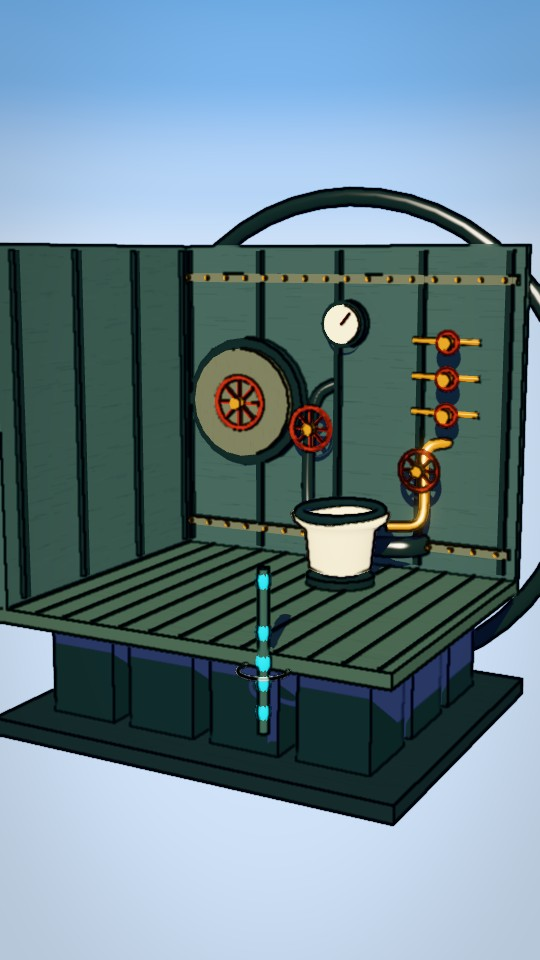
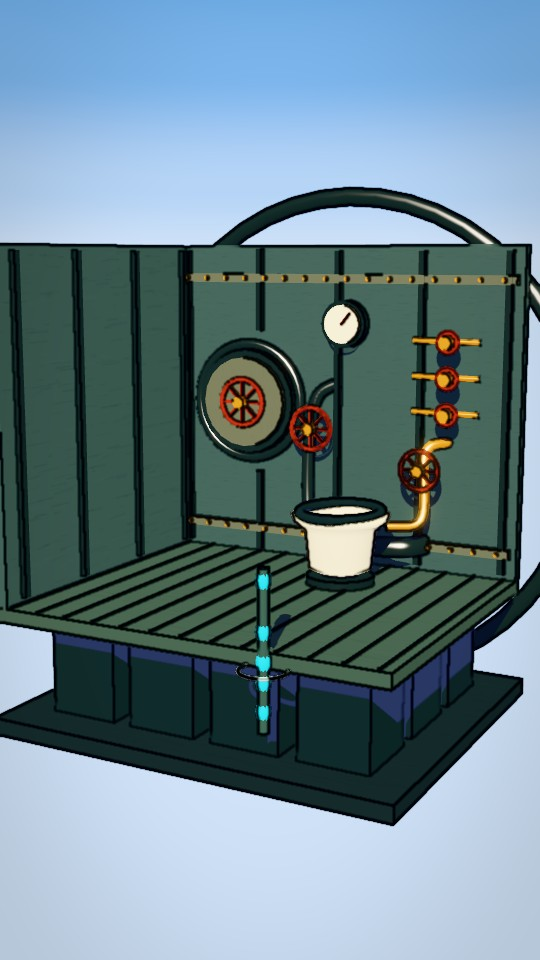
Prepare U-1206 assets for Claude preview gate

Changed region(s): [[0.3556, 0.3438, 0.5926, 0.5]]

diff --git a/videos/u1206-toilet-disaster/tools/Preview.tsx b/videos/u1206-toilet-disaster/tools/Preview.tsx
@@ -12,6 +12,7 @@ import {SkyRig} from '../../pipeline/sky';
 import {finish} from './materials';
 import {twoTone} from '../../pipeline/shade';
 import {createWaterSurface} from '../../../videos/submarine-toilet/assets/water.js';
+import {valveGripPoint,setValveAngle} from '../../../videos/submarine-toilet/assets/index.js';
 import {Ground} from '../../pipeline/ground';
 import {createCutawayFlow,createAnimatedBlast} from '../../../videos/submarine-toilet/assets/proofs.js';
 import {CardStage, person, blob, toCard, Stage, CamInfo} from '../../pipeline/cast';
@@ -19,16 +20,16 @@ import {CREW,CAPTAIN} from './cast';
 import {initWaterTextures,waterMat,setWaterLook,WATER_DAY} from '../../pipeline/water';
 import {createControlRoom,createBatteryRoom,createFloodEffects,createFish,createBubbles,createOceanCrests,createAircraft,createRaft,createGasCue,createLever,createWarningLamp} from '../../../videos/submarine-toilet/assets/support.js';
 import {createCompartment,createSubmarine,createToilet,createSection} from '../../../videos/submarine-toilet/assets/submarine.js';
-const shots=[{pos:[48,36,66],look:[0,3,0],fov:48},{pos:[2.1,2.0,4.4],look:[0,.8,-.2],fov:48},{pos:[6.5,5.0,10.0],look:[0,2,-.2],fov:48},{pos:[3.2,2.6,7.0],look:[0,1,-.4],fov:48},{pos:[80,48,105],look:[0,3,0],fov:48},{pos:[45,18,65],look:[0,3,0],fov:48},{pos:[3.4,2.6,7.0],look:[0,1,-.4],fov:48},{pos:[3.2,2.6,7.0],look:[0,1,-.4],fov:48},{pos:[3.7,3.3,7.5],look:[0,.9,-.3],fov:48},{pos:[-.55,1.65,2.8],look:[-.55,1.4,.3],fov:30},{pos:[4.5,3.6,8.4],look:[0,1.9,0],fov:42},{pos:[0,1.9,4.6],look:[-.85,1.1,-.6],fov:48},{pos:[80,48,105],look:[0,3,0],fov:48}] as const;
+const shots=[{pos:[48,36,66],look:[0,3,0],fov:48},{pos:[2.1,2.0,4.4],look:[0,.8,-.2],fov:48},{pos:[6.5,5.0,10.0],look:[0,2,-.2],fov:48},{pos:[3.2,2.6,7.0],look:[0,1,-.4],fov:48},{pos:[80,48,105],look:[0,3,0],fov:48},{pos:[45,18,65],look:[0,3,0],fov:48},{pos:[3.4,2.6,7.0],look:[0,1,-.4],fov:48},{pos:[3.2,2.6,7.0],look:[0,1,-.4],fov:48},{pos:[3.7,3.3,7.5],look:[0,.9,-.3],fov:48},{pos:[-.55,1.65,2.8],look:[-.55,1.4,.3],fov:30},{pos:[4.5,3.6,8.4],look:[0,1.9,0],fov:42},{pos:[0,1.9,4.6],look:[-.85,1.1,-.6],fov:48},{pos:[80,48,105],look:[0,3,0],fov:48},{pos:[.2,1.9,4.7],look:[-.8,1.3,-1.2],fov:45}] as const;
 function Inner(){const f=useCurrentFrame();const {camera,scene}=useThree();const cam=camera as THREE.PerspectiveCamera;
  const world=useMemo(()=>{const root=new THREE.Group(),sky=new SkyRig(root,{clouds:0});const ship=finish(createSubmarine()),room=finish(createCompartment()),toilet=finish(createToilet()),section=finish(createSection());const control=finish(createControlRoom()),battery=finish(createBatteryRoom()),flood=finish(createFloodEffects()),fish=finish(createFish()),bubbles=finish(createBubbles()),crests=finish(createOceanCrests()),aircraft=finish(createAircraft()),raft=finish(createRaft()),gas=createGasCue(),lever=finish(createLever());aircraft.position.set(-28,24,-10);raft.position.set(7,3.3,9);gas.position.set(0,1.1,0);gas.traverse(o=>o.layers.set(NOINK));lever.position.set(.55,1.35,-.66);control.add(lever);battery.add(gas);const warning=createWarningLamp();warning.position.set(-1.0,2.25,-1.25);battery.add(warning);fish.position.set(-5,8,5);fish.scale.setScalar(3);bubbles.position.set(5,7,3);bubbles.scale.setScalar(2);initWaterTextures();const ocean=createWaterSurface({width:600,depth:600,segments:100,level:3.3,amplitude:.7,period:20,color:'#267f9c'}); const sea=ocean.mesh; twoTone(sea.material); const floodWater=createWaterSurface({width:3,depth:2.5,segments:30,level:.14,amplitude:.035,period:.7,color:'#45aec0',opacity:.72});twoTone(floodWater.mesh.material);flood.add(floodWater.mesh);const slab=flood.getObjectByName('water-level');if(slab)slab.visible=false;const backdrop=new THREE.Mesh(new THREE.SphereGeometry(400,24,12),new THREE.MeshBasicMaterial({color:'#276f82',side:THREE.BackSide,depthWrite:false,fog:false}));backdrop.layers.set(NOINK);root.add(ship,room,toilet,section,control,battery,flood,fish,bubbles,sea,backdrop,crests,aircraft,raft);const flow=createCutawayFlow(),blast=createAnimatedBlast();finish(flow.group);finish(blast.group);section.add(flow.group);flood.add(blast.group);const oldjet=flood.getObjectByName('water-jet');if(oldjet)oldjet.visible=false;const ground=new Ground();const floor=room.getObjectByName('floor');if(floor)ground.add(floor);const cf=control.getObjectByName('floor');if(cf)ground.add(cf);const cards=new CardStage(root,ground);return {root,sky,ship,room,toilet,section,control,battery,flood,fish,bubbles,sea,backdrop,crests,ocean,floodWater,aircraft,raft,flow,blast,cards}},[]);
  const fx=useMemo(()=>({ink:new InkPass(scene,cam),lens:new LensBlur({maxCoC:24,nearScale:1.2}),bloom:new BloomEffect({blendFunction:BlendFunction.ADD,intensity:.5,luminanceThreshold:1,luminanceSmoothing:.2,mipmapBlur:true,levels:6,radius:.6}),tone:new ToneMappingEffect({mode:ToneMappingMode.NEUTRAL}),grade:new GradeEffect(GRADES.day,GRADE_STRENGTH.day)}),[scene,cam]);
- const i=Math.min(12,Math.floor(f/100)),s=shots[i];cam.position.set(s.pos[0],s.pos[1],s.pos[2]);cam.lookAt(s.look[0],s.look[1],s.look[2]);if(i===0||i===5) cam.rotateZ(-0.85);cam.fov=s.fov;cam.updateProjectionMatrix();cam.updateMatrixWorld();cam.layers.enable(NOINK);
+ const i=Math.min(13,Math.floor(f/100)),s=shots[i];cam.position.set(s.pos[0],s.pos[1],s.pos[2]);cam.lookAt(s.look[0],s.look[1],s.look[2]);if(i===0||i===5) cam.rotateZ(-0.85);cam.fov=s.fov;cam.updateProjectionMatrix();cam.updateMatrixWorld();cam.layers.enable(NOINK);
  const focus=new THREE.Vector3(...s.look),sun=i===0?SkyRig.sunFrom(focus.x-cam.position.x,focus.z-cam.position.z,62,44):new THREE.Vector3(1,2,3).normalize();world.sky.update(cam,scene,'day',sun,focus,{fogNear:200,fogFar:1000,shadowR:i===0?60:8});
- world.ship.visible=i===0||i===4||i===5||i===12;world.ship.position.y=i===12?-8*((f%100)/99):0;world.room.visible=i===3||i===7||i===9||i===11;const sidewall=world.room.getObjectByName('removable-side-wall');if(sidewall)sidewall.visible=i!==11;world.section.visible=i===2||i===10;world.flow.group.visible=i===10;world.toilet.visible=i===1;world.control.visible=i===6;world.battery.visible=i===8;world.flood.visible=i===7;world.aircraft.visible=i===4;world.raft.visible=i===4;world.sea.visible=i===4||i===12;world.crests.visible=i===4||i===12;world.backdrop.visible=i===5;world.backdrop.position.copy(cam.position);world.fish.visible=i===5;world.bubbles.visible=i===5;setWaterLook(WATER_DAY,f/30);world.ocean.update(f/30);world.floodWater.update(f/30);world.flow.update((f%100)/30);world.blast.update(1+(f%100)/30);world.root.updateMatrixWorld(true);
+ world.ship.visible=i===0||i===4||i===5||i===12;world.ship.position.y=i===12?-8*((f%100)/99):0;world.room.visible=i===3||i===7||i===9||i===11||i===13;const sidewall=world.room.getObjectByName('removable-side-wall');if(sidewall)sidewall.visible=i!==11&&i!==13;const hatch=world.room.getObjectByName('hatch-hinge');if(hatch)hatch.rotation.y=i===13?-1.1:0;world.section.visible=i===2||i===10;world.flow.group.visible=i===10;world.toilet.visible=i===1;world.control.visible=i===6;world.battery.visible=i===8;world.flood.visible=i===7;world.aircraft.visible=i===4;world.raft.visible=i===4;world.sea.visible=i===4||i===12;world.crests.visible=i===4||i===12;world.backdrop.visible=i===5;world.backdrop.position.copy(cam.position);world.fish.visible=i===5;world.bubbles.visible=i===5;setWaterLook(WATER_DAY,f/30);world.ocean.update(f/30);world.floodWater.update(f/30);world.flow.update((f%100)/30);world.blast.update(1+(f%100)/30);world.root.updateMatrixWorld(true);
  const right=new THREE.Vector3().setFromMatrixColumn(cam.matrixWorld,0),ci:CamInfo={pos:cam.position,right,sun,light:'day'},st:Stage={places:[],fx:[]};
  if(i===3||i===6||i===7||i===9){st.places.push(person(ci,1,i===6?CAPTAIN:CREW,'crew',-.55,0,.3,{mode:'stand',expr:'worried'},1,{name:'crew',glow:'subtle'}));blob(ci,st,-.55,.3)}
- if(i===11){const x=-1.35,z=-.97,target=new THREE.Vector3(-1.05,1.35,-.97),hand=toCard(cam.position,x,0,z,1,target);st.places.push(person(ci,2,CREW,'grip',x,0,z,{mode:'stand',expr:'worried',hands:[null,hand]},1,{name:'grip-test'}));blob(ci,st,x,z)}world.cards.render(st,cam,right,'day',false);noInkFallback(world.root);fx.lens.focus=cam.position.distanceTo(focus);fx.lens.cInf=0;
+ if(i===11){const x=-1.45,z=-.86;setValveAngle(world.room,1,(f%100)/99*Math.PI/2);const target=valveGripPoint(world.room,1,-1),hand=toCard(cam.position,x,0,z,1,target);st.places.push(person(ci,2,CREW,'grip',x,0,z,{mode:'stand',expr:'worried',hands:[null,hand]},1,{name:'grip-test'}));blob(ci,st,x,z)}world.cards.render(st,cam,right,'day',false);noInkFallback(world.root);fx.lens.focus=cam.position.distanceTo(focus);fx.lens.cInf=0;
  return <><primitive object={world.root} dispose={null}/><EffectComposer multisampling={4}><primitive object={fx.ink} dispose={null}/><primitive object={fx.lens.pre} dispose={null}/><primitive object={fx.lens.main} dispose={null}/><primitive object={fx.bloom} dispose={null}/><primitive object={fx.tone} dispose={null}/><primitive object={fx.grade} dispose={null}/></EffectComposer></>}
 const Preview=()=> <AbsoluteFill><ThreeCanvas width={1080} height={1920} dpr={(getInputProps() as {dpr?:number}).dpr??.5} shadows gl={{antialias:false,stencil:false,toneMappingExposure:1}} camera={{fov:40,near:.15,far:1500}}><Inner/></ThreeCanvas></AbsoluteFill>;
-export const Root=()=> <Composition id="SubmarineAssetReview" component={Preview} durationInFrames={1300} fps={30} width={1080} height={1920}/>;
+export const Root=()=> <Composition id="SubmarineAssetReview" component={Preview} durationInFrames={1400} fps={30} width={1080} height={1920}/>;

diff --git a/videos/u1206-toilet-disaster/assets/submarine.js b/videos/u1206-toilet-disaster/assets/submarine.js
@@ -6,7 +6,7 @@ function mesh(g,m,parent,x=0,y=0,z=0){const a=new T.Mesh(g,m);a.position.set(x,y
 function box(p,m,x,y,z,w,h,d){return mesh(new T.BoxGeometry(w,h,d),m,p,x,y,z)}
 function cylinder(p,m,x,y,z,r,h,axis='y'){let a=mesh(new T.CylinderGeometry(r,r,h,20),m,p,x,y,z);if(axis==='z')a.rotation.x=Math.PI/2;if(axis==='x')a.rotation.z=Math.PI/2;return a}
 function pipe(p,m,points,r=.045){const curve=new T.CatmullRomCurve3(points.map(a=>new T.Vector3(...a)),false,'centripetal');return mesh(new T.TubeGeometry(curve,48,r,8,false),m,p)}
-function wheel(p,x,y,z,r=.22){let g=new T.Group();g.position.set(x,y,z);p.add(g);let rim=mesh(new T.TorusGeometry(r,.024,8,24),M.red,g);for(let i=0;i<4;i++){let s=box(g,M.red,0,0,0,r*1.8,.025,.035);s.rotation.z=i*Math.PI/4}cylinder(g,M.brass,0,0,.03,.055,.09,'z');g.name='valve-wheel';return g}
+function wheel(p,x,y,z,r=.22){let g=new T.Group();g.position.set(x,y,z);p.add(g);let rim=mesh(new T.TorusGeometry(r,.024,8,24),M.red,g);for(let i=0;i<4;i++){let s=box(g,M.red,0,0,0,r*1.8,.025,.035);s.rotation.z=i*Math.PI/4}cylinder(g,M.brass,0,0,.03,.055,.09,'z');g.name='valve-wheel';g.userData={axis:'Z',rimRadius:r};return g}
 function bolts(p,z,y,span,n){for(let i=0;i<n;i++)cylinder(p,M.brass,-span/2+i*span/(n-1),y,z,.018,.025,'z')}
 export function createToilet(){const g=new T.Group();g.name='pressure-toilet';
  // Hollow bowl made as a lathed cross-section; the inner surface remains visible.
@@ -19,12 +19,19 @@ export function createToilet(){const g=new T.Group();g.name='pressure-toilet';
 export function createCompartment(){let g=new T.Group();g.name='compartment';
  let floor=box(g,M.floor,0,-.06,0,3.2,.12,2.7);floor.name='floor';
  for(let x=-1.5;x<1.6;x+=.25)box(g,M.edge,x,.005,0,.018,.012,2.65);
- let back=new T.Group();back.name='removable-back-wall';g.add(back);box(back,M.hull,0,1.35,-1.3,3.2,2.7,.12);
- for(let x of [-1.48,-.75,0,.75,1.48])box(back,M.edge,x,1.35,-1.22,.055,2.6,.06);
+ let back=new T.Group();back.name='removable-back-wall';g.add(back);
+ // Real opening cut into the wall; the separate door pivots at its left edge.
+ const wallShape=new T.Shape();wallShape.moveTo(-1.6,0);wallShape.lineTo(1.6,0);wallShape.lineTo(1.6,2.7);wallShape.lineTo(-1.6,2.7);wallShape.closePath();
+ const opening=new T.Path();opening.absarc(-.85,1.35,.47,0,Math.PI*2,true);wallShape.holes.push(opening);
+ const wall=mesh(new T.ExtrudeGeometry(wallShape,{depth:.12,bevelEnabled:false,curveSegments:32}),M.hull,back,0,0,-1.36);wall.name='bulkhead-with-opening';
+ for(let x of [-1.48,0,.75,1.48])box(back,M.edge,x,1.35,-1.22,.055,2.6,.06);
+ for(let y of [.38,2.32])box(back,M.edge,-.75,y,-1.22,.055,.7,.06);
  for(let y of [.22,2.42]){box(back,M.deck,0,y,-1.21,3.1,.075,.06);bolts(back,-1.16,y,2.9,16)}
  let side=new T.Group();side.name='removable-side-wall';g.add(side);box(side,M.hull,-1.56,1.35,0,.1,2.7,2.7);
  for(let z of [-1.15,-.4,.4,1.15])box(side,M.edge,-1.49,1.35,z,.05,2.6,.06);
- let hatch=new T.Group();hatch.name='hatch';back.add(hatch);cylinder(hatch,M.edge,-.85,1.35,-1.18,.56,.12,'z');cylinder(hatch,M.deck,-.85,1.35,-1.09,.47,.08,'z');wheel(hatch,-.85,1.35,-1.02,.22);
+ const frame=mesh(new T.TorusGeometry(.5,.045,10,40),M.edge,back,-.85,1.35,-1.21);frame.name='hatch-frame';
+ let hatch=new T.Group();hatch.name='hatch-hinge';hatch.position.set(-1.36,1.35,-1.19);hatch.userData.axis='Y';back.add(hatch);
+ cylinder(hatch,M.edge,.51,0,0,.46,.10,'z');cylinder(hatch,M.deck,.51,0,.07,.39,.05,'z');wheel(hatch,.51,0,.12,.20);
  let toilet=createToilet();toilet.position.set(.35,0,-.55);g.add(toilet);
  for(let i=0;i<3;i++){let y=1.35+i*.29;pipe(back,M.brass,[[.7,y,-1.18],[1.0,y,-1.14],[1.28,y,-1.14]],.025);wheel(back,1.05,y,-1.02,.08)}
  cylinder(back,M.edge,.1,2.05,-1.14,.2,.08,'z');cylinder(back,M.ivory,.1,2.05,-1.08,.16,.03,'z');let needle=new T.Group();needle.name='gauge-needle-pivot';needle.position.set(.1,2.05,-1.05);back.add(needle);box(needle,M.red,0,.06,0,.015,.12,.02);needle.rotation.z=-.7;

diff --git a/videos/u1206-toilet-disaster/assets/index.js b/videos/u1206-toilet-disaster/assets/index.js
@@ -1,0 +1,18 @@
+// Public asset entry points. All units are metres; Three.js 0.169 and Y-up.
+import * as THREE from 'three';
+export {createToilet,createCompartment,createSubmarine,createSection} from './submarine.js';
+export {createControlRoom,createBatteryRoom,createFish,createBubbles,createOceanCrests,createAircraft,createRaft,createGasCue,createLever,createWarningLamp} from './support.js';
+export {createWaterSurface} from './water.js';
+export {createAnimatedBlast,createCutawayFlow} from './proofs.js';
+/** World-space point at a wheel's left/right rim after parent transformations and rotation. */
+export function valveGripPoint(room,number,side=1){
+ const wheel=room.getObjectByName(`valve-wheel-${number}`);
+ if(!wheel)throw new Error(`Unknown valve-wheel-${number}`);
+ room.updateWorldMatrix(true,true);const r=wheel.userData.rimRadius;
+ if(!(r>0))throw new Error('Valve wheel is missing rim radius');
+ return wheel.localToWorld(new THREE.Vector3(Math.sign(side||1)*r,0,.04));
+}
+/** Rotate only the named valve about its authored shaft; radians. */
+export function setValveAngle(room,number,radians){const wheel=room.getObjectByName(`valve-wheel-${number}`);if(!wheel)throw new Error(`Unknown valve-wheel-${number}`);wheel.rotation.z=radians;}
+/** Open or close the compartment door about its Y-axis hinge; radians. */
+export function setHatchAngle(room,radians){const hinge=room.getObjectByName('hatch-hinge');if(!hinge)throw new Error('Missing hatch-hinge');hinge.rotation.y=radians;}

diff --git a/videos/u1206-toilet-disaster/CODEX-HANDOFF.md b/videos/u1206-toilet-disaster/CODEX-HANDOFF.md
@@ -1,15 +1,17 @@
-# Codex handoff — not ready for animation
+# Codex handoff — first-stills gate
 
-Branch `codex/u1206-toilet-disaster` was created directly from approved `story/u1206-toilet-disaster` commit `fefff8123fcc84d6adea73d6f0787c51856f3490`. Owner explicitly confirmed script and shot list approval. STORY.md YAML states `script_status: approved`, while its body calls the narration a draft and SHOTLIST.md heading says DRAFT. These inconsistent labels were not edited; owner confirmation controls. No narration or shot-list text was changed.
+`codex/u1206-toilet-disaster` derives from the approved story branch at `fefff8123fcc84d6adea73d6f0787c51856f3490`. The owner confirmed the narration and shot list are approved. `STORY.md` metadata agrees; its body and the `SHOTLIST.md` heading still say draft. Preserve their text; do not rewrite approved narration or direction without asking.
 
-This branch contains original stylized JS models and materials, review renders, a reusable procedural water surface and isolated rendering adapters. See `ASSET-MANIFEST.md` for full shot inventory, pivots, implementation and restrictions. It is a work-in-progress, **not a production-ready package**. The exterior is a simplified scaffold; the toilet, cutaway, sets and effects need substantial art/modeling improvements, especially a plausible watertight hatch, non-clipping water path, realistic scene detail, mobile-readable gas, water blast, and staging. No prop-contact, face occlusion, moving water interaction, sinking motion, normal orientation or formal visual QA has passed. Owner permission to use stylized geometry does not waive the Niagara quality target.
+## What is available
 
-Runtime: the story base has no Three.js/Remotion pipeline. Actual in-engine stills were rendered in a separate detached worktree of our earlier branch at `a090f70227f92483ff856856000d6ceda6828e80` (inherited Niagara base `93f2dbeeb2d74d85a0994e68519837bf945bad19`), with this branch's three asset files linked into it. See `tools/README.md`. This is **not** an integration with Claude's active branch and must not be portrayed as one. Claude's branch was neither modified nor merged. On 2026-11-17 `npx tsc --noEmit` passed in the isolated runtime; the story `tools/check-controls.mjs` passed named control and deterministic water checks; `tools/audit-submarine.mjs` passed finite position/normal and bounds checks (sprites such as gas are outside mesh counts). The ten 540×960 JPEGs are actual Remotion/Three.js stills, not a full quality approval. The final seat-hinge change was rerendered in the toilet, cutaway, staging and flood scenes. The gas cue was rerendered and is too faint. The standalone warning lamp has not been rendered.
+See `ASSET-MANIFEST.md` for the full shot inventory, paths and limitations. `assets/index.js` exposes the stylized exterior, toilet, removable-wall compartment, real hinged hatch, section, other rooms, controls, water and illustrative effects. Valve pivots, `valveGripPoint()` and `setValveAngle()` provide camera-stage anchors; `setHatchAngle()` opens the hatch. `tools/cast.ts` supplies existing-style crew outfits. Previews include `hatch-open.jpg`, `grip-start-grip-proof.jpg`, `grip-end-grip-proof.jpg`, and scene stills. Owner accepted the earlier exploratory look and character headwear; the latest hatch and grip images have not been separately approved. User assigns animation and timing to Claude.
 
-Required before Claude production: finish and visually review the asset package against the approved shot list and Niagara benchmark; prove valve → reversed flow, flood → batteries/gas, and surfacing → scuttling as technical motion proofs without making the video; obtain owner approval of actual scene stills and motion where required; integrate the runtime with owner-controlled branch coordination. No script or shot change without asking. No merge without explicit approval. Exact commit SHA: obtain using `git rev-parse HEAD` after checking out the pushed branch; this file cannot contain its own commit SHA.
+## Integration and validation
 
-## Follow-up proof pass
+The story branch has no renderer. Tests used an isolated detached worktree of our prior Codex commit `a090f70227f92483ff856856000d6ceda6828e80`, based on Niagara `93f2dbeeb2d74d85a0994e68519837bf945bad19`. No work was merged into or changed on Claude's active branch. In that isolated runtime, the story-scoped installer was exercised, TypeScript passed, and `installed-hatch-open.jpg` rendered. Story `tools/check-controls.mjs` passed named controls, world-space rim movement, hatch hinge and deterministic water/effect tests; `tools/audit-submarine.mjs` passed finite position/normal and bounds checks. Those tests do not establish manifold topology, normal orientation, or collision safety. The two valve stills are sampled positions, not complete motion QA.
 
-Added deterministic moving-droplet flow and blast controls, staged a single-frame hand target, improved the gas cue, and rendered the warning lamp. The user can review the new stills named in the manifest. Early and late frames show the hull descending below the water, but they do not establish a motion-proof pass. Contact is not visually clear and has not been tested across valve rotation. Water path, jet, gas and exterior remain stylized prototypes and still fall below Niagara quality. `npx tsc --noEmit` passed in the isolated runtime and `node videos/u1206-toilet-disaster/tools/check-controls.mjs` passed deterministic controls. No final video or Claude animation was created. Continue refinement and full motion/contact verification before animation handoff.
+The adapter and its dependencies are documented in `tools/README.md`. It installs only story-specific paths and refuses overwrites; it requires an existing compatible renderer and opt-in cap patch. Claude's later runtime may differ. Coordinate integration in an isolated branch/worktree; do not apply patches or overwrite files on the active Niagara branch. The exact commit for this handoff must be read from `git rev-parse HEAD` or the PR head after checkout.
 
-A 100-frame, 3.33 s sinking *technical test* was rendered in Remotion at 270 × 480 (`previews/sink-motion.mp4`), using `tools/submarine-motion-proof.mjs` in the isolated runtime. The contact sheet confirms descent and disappearance, but shows the boat disappearing too early with a long empty hold, no wake and no buoyancy: this is a failed production motion proof and requires iteration. No story video or final edit was made.
+## First Claude gate and limitations
+
+Claude may use the approved script and shot list to integrate these assets and prepare actual in-engine first stills, then stop for owner review. Claude handles animation, action timing and any motion proofs after the applicable owner gate. No final animation or video has been created here. The rough gas, flow, illustrative cutaway, exterior detail, water interaction and scene lighting need in-context visual review; the static hand samples do not prove contact through an entire animation. `sink-motion.mp4` was a low-resolution technical test and failed visual acceptance due to its early disappearance and lack of wake; it is not an approved shot. Do not claim the package meets Niagara quality until owner reviews the scene stills. No merge or publishing without owner approval.

diff --git a/videos/u1206-toilet-disaster/ASSET-MANIFEST.md b/videos/u1206-toilet-disaster/ASSET-MANIFEST.md
@@ -32,3 +32,11 @@ The approved story base `fefff8123fcc84d6adea73d6f0787c51856f3490` does not cont
 `assets/proofs.js` adds `createCutawayFlow()` (a schematic path and independently posed droplets) and `createAnimatedBlast()` (stream and moving droplets). Both `update(seconds)` functions are frame-deterministic and passed repeatability checks. Updated review adapter shows a valve grip target via the existing `toCard` rig, the cutaway path, warning lamp and gas cue, and vertically sinking exterior. Actual in-engine stills: `previews/flood.jpg`, `flow-proof.jpg`, `grip-proof.jpg`, `battery-room.jpg`, and `early-sink-proof.jpg` / `late-sink-proof.jpg`; `early-flow-proof.jpg` / `late-flow-proof.jpg` sample the flow. The sinking is schematic and has no wake, buoyancy, raft interaction or underwater continuity. These are separate still frames, not a continuous motion render. The hand is near the valve in one view but a clear grip, contact through rotation, depth/occlusion, and two-hand interaction have not passed QA. The water path is an external schematic tube and does not yet show convincing water through the deck. The gas is a colored visual cue and is still too indistinct; the warning lamp has been rendered but not animated. The blast has visible hard edges. Assets remain review-needed and below Niagara quality; do not mark them production-ready.
 
 `previews/sink-motion.mp4` is a 270 × 480, 100-frame technical sinking test. It renders but fails visual acceptance: the boat disappears too early, leaving an empty hold, and there is no wake, buoyancy or cut to underwater. This is not an approved motion proof or final video.
+
+## Latest preparation pass
+
+`createCompartment()` now has an actual circular bulkhead opening and `hatch-hinge` pivot (Y), rather than a disk on a solid wall. `assets/index.js` is the stable import surface: `setHatchAngle(room, radians)`, `setValveAngle(room, n, radians)`, and `valveGripPoint(room, n, side)` provide separate controls and world-space rim targets. The control test confirms the anchor follows a 90° valve rotation. The renderer stills `hatch-open.jpg`, `grip-start-grip-proof.jpg`, and `grip-end-grip-proof.jpg` show the hatch and two sampled grip positions. These are isolated scene stills; Claude must evaluate continuous character motion, 2D/3D depth and camera-specific contact while animating.
+
+`tools/install-review-adapter.mjs` installs story-scoped QA files into a compatible **isolated** renderer checkout, refuses to overwrite existing targets, and does not change shared pipeline modules. It was exercised in a detached runtime at `a090f70`, with story files linked from this branch: TypeScript passed and `installed-hatch-open.jpg` was rendered. This does not prove compatibility with any later changes to Claude's renderer. The opt-in cap patch must be coordinated in an integration branch, never applied to Claude's active worktree. The user has assigned animation and timing to Claude; the schematic sinking clip is only a technical test and is not an approved production animation.
+
+The user previously accepted the look of the exploratory stills and the watch-cap/eyebrow revision. The newly revised hatch and grip stills have not been separately approved. The models and FX remain stylized and sparse versus Niagara; the gas and flow cues, detailed exterior, and final in-scene lighting need review in context. The existing handoff is sufficient to begin the **Claude integration and first-stills gate**, subject to owner review; it is not evidence of final production quality.

diff --git a/videos/u1206-toilet-disaster/CLAUDE-PROMPT.md b/videos/u1206-toilet-disaster/CLAUDE-PROMPT.md
@@ -1,7 +1,9 @@
-# Claude continuation — visual gate first
+# Claude continuation — integration and first stills
 
-Check out the exact Codex branch and commit provided by the owner; assets are not visible from another branch until explicitly checked out or integrated. Read AGENTS.md, PRODUCTION-PIPELINE.md, SKILL.md, `videos/u1206-toilet-disaster/STORY.md`, `SCRIPT.md`, `SHOTLIST.md`, `ASSET-MANIFEST.md`, and `CODEX-HANDOFF.md`. The owner explicitly approved narration and shot list. Some internal draft labels are stale: do not rewrite approved narration or shots without asking.
+Check out the exact Codex branch and commit supplied by the owner; changes are not visible from a different branch until checked out or deliberately integrated. Read `AGENTS.md`, `PRODUCTION-PIPELINE.md`, `SKILL.md`, `videos/u1206-toilet-disaster/STORY.md`, `SCRIPT.md`, `SHOTLIST.md`, `ASSET-MANIFEST.md`, and `CODEX-HANDOFF.md`. The owner explicitly approved the narration and shot list. Some internal draft labels are stale; do not rewrite either without asking.
 
-The assets are preliminary and do not yet meet Niagara quality. Follow the manifest for existing files and missing effects. The user permits stylized submarine/pipe geometry; do not present hypothetical geometry or an invented valve sequence as a historical fact. Do not treat the rendered stills as owner-approved production assets. Do not redesign assets that the owner has subsequently approved except to resolve integration defects.
+The owner assigns animation and timing to Claude. Use the provided stylized assets and the approved shot list; do not rebuild accepted assets except for integration or demonstrated defects. Import from `videos/u1206-toilet-disaster/assets/index.js`; see the manifest for the hatch/valve controls, crew outfit adapter and limitations. User permits stylized geometry; do not present the fictional pipe layout as a historical fact.
 
-Once the owner has approved the assets and authorized the next gate, render actual 9:16 scenes for the critical moments in the shot list and stop for owner review. Only after applicable approval create the three motion proofs, then final animation, voice, sound and render per PRODUCTION-PIPELINE.md. Do not alter the ongoing Niagara work, merge branches, or publish without explicit owner approval. The story base has no renderer; follow the handoff and coordinate a safe integration first.
+First coordinate a safe runtime integration in a separate worktree. The story base does not contain the renderer; the prior preview harness was validated only against the isolated Codex runtime specified in `CODEX-HANDOFF.md`. Do not modify the active Niagara branch. Render the actual 9:16 first-stills gate for the critical shots in `SHOTLIST.md`, including crew contact, cutaway, flooding and exterior, and stop for owner visual review. The user previously accepted exploratory character appearance; the newest hatch and grip stills still require in-context review. Do not regard the preliminary water, gas, hull or static tests as proof of Niagara quality or final-motion approval.
+
+After owner approval of those stills and applicable production gates, animate the approved shots, timing, water, grip and sinking, verify contacts and effects, then complete voice, sound and final rendering per `PRODUCTION-PIPELINE.md`. Never merge, overwrite concurrent work, publish, or change approved story text without the owner's approval.

diff --git a/videos/u1206-toilet-disaster/tools/README.md b/videos/u1206-toilet-disaster/tools/README.md
@@ -1,5 +1,9 @@
 # Isolated renderer adapter
 
-The approved story branch deliberately contains no renderer, package.json or `src/pipeline`. Test previews were rendered in a **separate detached worktree** at `a090f70227f92483ff856856000d6ceda6828e80` (our previous Codex branch, based on Niagara `93f2dbe`). Never reset or modify Claude's active branch. With that isolated runtime checked out and dependencies installed, copy `Preview.tsx`, `cast.ts`, `materials.ts`, `index.tsx` into `src/videos/submarine-toilet/`, and copy `submarine-stills.mjs` into `scripts/`. Supply this story's four `assets/*.js` files at the runtime's `videos/submarine-toilet/assets/` (in the local test they were symlinks to this branch). The opt-in `subcap` renderer change is already at `a090f70`; for an isolated runtime on `93f2dbe`, `opt-in-watch-cap.patch` is supplied, but applying it to the active Claude branch is prohibited. Render with `CHROME=/usr/bin/chromium node scripts/submarine-stills.mjs`; Chromium required elevated process permission in this environment. Select scenes with `ONLY=ocean,flood`; use `OFFSET=10 TAG=early-` to sample a different frame and retain both outputs. The script writes to the isolated runtime's `videos/submarine-toilet/previews/`.
+The approved story branch deliberately contains no renderer, package.json or `src/pipeline`. Test previews were rendered in a **separate detached worktree** at `a090f70227f92483ff856856000d6ceda6828e80` (our previous Codex branch, based on Niagara `93f2dbe`). Never reset or modify Claude's active branch. With that isolated runtime checked out and dependencies installed, copy `Preview.tsx`, `cast.ts`, `materials.ts`, `index.tsx` into `src/videos/submarine-toilet/`, and copy `submarine-stills.mjs` into `scripts/`. Supply all of this story's `assets/*.js` files at the runtime's `videos/submarine-toilet/assets/` (in the local test they were symlinks to this branch). The opt-in `subcap` renderer change is already at `a090f70`; for an isolated runtime on `93f2dbe`, `opt-in-watch-cap.patch` is supplied, but applying it to the active Claude branch is prohibited. Render with `CHROME=/usr/bin/chromium node scripts/submarine-stills.mjs`; Chromium required elevated process permission in this environment. Select scenes with `ONLY=ocean,flood`; use `OFFSET=10 TAG=early-` to sample a different frame and retain both outputs. The script writes to the isolated runtime's `videos/submarine-toilet/previews/`.
 
 Local dependency versions: Three.js 0.169.0, Remotion 4.0.544 and React 18.3.1 from the runtime lockfile. This overlay is a QA harness, not an installed production integration, and no claim is made that it will remain compatible with Claude's evolving runtime.
+
+## Story-scoped installer
+
+In an isolated integration worktree containing this story directory and a compatible renderer with the opt-in `subcap` patch already present, run `node videos/u1206-toilet-disaster/tools/install-review-adapter.mjs` from its root. It refuses to overwrite existing review files and does not change shared pipeline modules. Then use `node scripts/u1206-asset-stills.mjs`; `ONLY`, `OFFSET`, `TAG`, and `CHROME` work as above. Do not use this installer in Claude’s active worktree.
